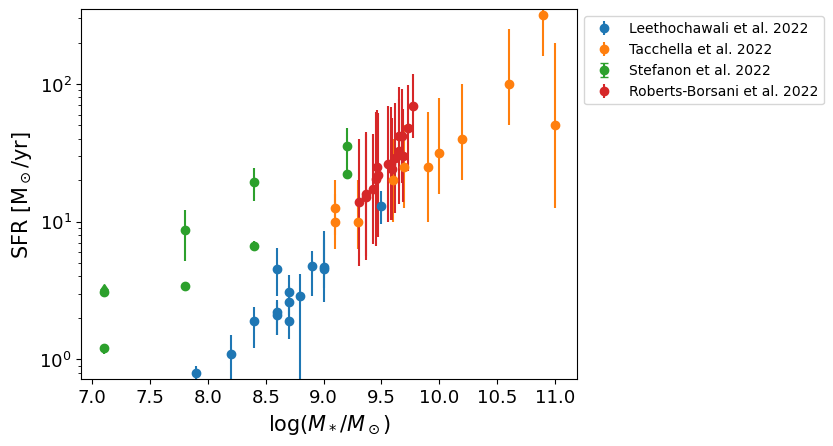
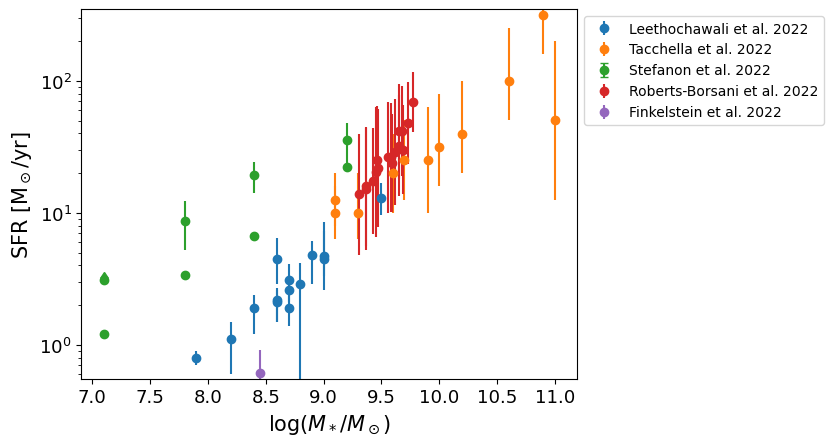
updated docs

diff --git a/docs/datarst/UV_luminosity_function.rst b/docs/datarst/UV_luminosity_function.rst
@@ -68,6 +68,12 @@ Data sources
 
    <a href="https://iopscience.iop.org/article/10.1088/0004-637X/810/1/71" target="_blank">Finkelstein et al. 2015</a>
 
+|Finkelstein et al. 2022|
+
+.. |Finkelstein et al. 2022| raw:: html
+
+   <a href="https://arxiv.org/pdf/2207.12474.pdf" target="_blank">Finkelstein et al. 2022</a>
+
 |Ishigaki et al. 2018|
 
 .. |Ishigaki et al. 2018| raw:: html

diff --git a/docs/datarst/galaxy_main_sequence.rst b/docs/datarst/galaxy_main_sequence.rst
@@ -8,6 +8,12 @@ Star formation rate  as function of galaxy stellar mass
 Data sources
 ^^^^^^^^^^^^
 
+|Finkelstein et al. 2022|
+
+.. |Finkelstein et al. 2022| raw:: html
+
+   <a href="https://arxiv.org/pdf/2207.12474.pdf" target="_blank">Finkelstein et al. 2022</a>
+
 |Leethochawali et al. 2022|
 
 .. |Leethochawali et al. 2022| raw:: html
